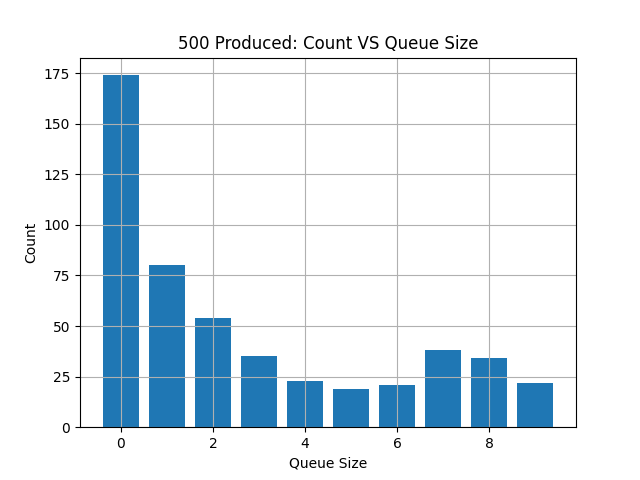
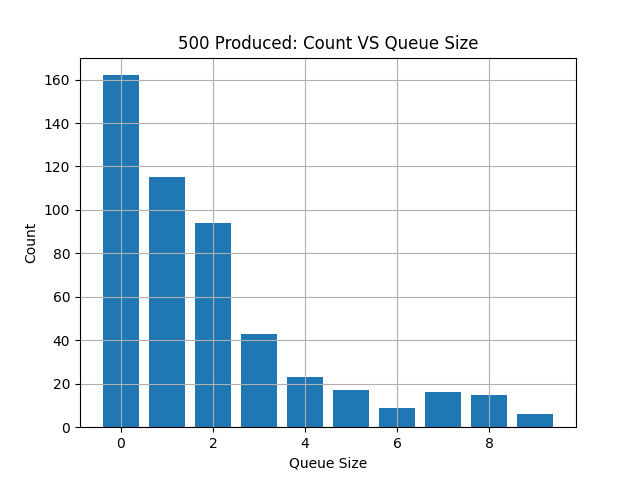
last changes

diff --git a/lesson_04/prove/prove.py b/lesson_04/prove/prove.py
@@ -2,21 +2,16 @@ import time
 import threading
 import random
 from datetime import datetime
-
-# Include cse 251 common Python files
 from cse251 import *
 
 # Global Constants - DO NOT CHANGE
-cars_to_be_made = 500
+CARS_TO_PRODUCE = 500
 MAX_QUEUE_SIZE = 10
 SLEEP_REDUCE_FACTOR = 50
 
-# NO GLOBAL VARIABLES!
-
 class Car():
-    """ This is the Car class that will be created by the factories """
+    """ Represents a randomly generated car. """
 
-    # Class Variables
     car_makes = ('Ford', 'Chevrolet', 'Dodge', 'Fiat', 'Volvo', 'Infiniti', 'Jeep', 'Subaru', 
                 'Buick', 'Volkswagen', 'Chrysler', 'Smart', 'Nissan', 'Toyota', 'Lexus', 
                 'Mitsubishi', 'Mazda', 'Hyundai', 'Kia', 'Acura', 'Honda')
@@ -28,110 +23,120 @@ class Car():
     car_years = [i for i in range(1990, datetime.now().year)]
 
     def __init__(self):
-        # Make a random car
+        """ Initializes a new car with random attributes. """
         self.model = random.choice(Car.car_models)
         self.make = random.choice(Car.car_makes)
         self.year = random.choice(Car.car_years)
 
-        # Sleep a little.  Last statement in this for loop - don't change
-        time.sleep(random.random() / (SLEEP_REDUCE_FACTOR))
+        time.sleep(random.random() / SLEEP_REDUCE_FACTOR)  # Simulate production delay
+        print(f'Created: {self.info()}')  # Print car details
 
-        # Display the car that has was just created in the terminal
-        print(f'Created: {self.info()}')
-           
     def info(self):
-        """ Helper function to quickly get the car information. """
+        """ Returns a string representation of the car. """
         return f'{self.make} {self.model}, {self.year}'
 
 
 class Queue251():
-    """ This is the queue object to use for this assignment. Do not modify!! """
+    """ Custom queue implementation for this assignment. """
 
     def __init__(self):
         self.__items = []
 
     def size(self):
+        """ Returns the current queue size. """
         return len(self.__items)
 
     def put(self, item):
-        assert len(self.__items) <= 10
+        """ Adds an item to the queue. """
         self.__items.append(item)
 
     def get(self):
+        """ Removes and returns the front item from the queue. """
         return self.__items.pop(0)
 
 
 class Factory(threading.Thread):
-    """ This is a factory.  It will create cars and place them on the car queue """
+    """ Factory thread that creates cars and adds them to the queue. """
 
-    def __init__(self, queue, banana1, sem_full):
+    def __init__(self, queue, banana1, banana2):
         threading.Thread.__init__(self)
         self.queue = queue
         self.banana1 = banana1
-        # banana1 is a semaphore it counts the number of available slots in the queue
-        self.sem_full = sem_full
+        self.banana2 = banana2
 
     def run(self):
-        for _ in range(cars_to_be_made):
-            self.banana1.acquire()  
+        """ Produces cars and adds them to the queue. """
+        for _ in range(CARS_TO_PRODUCE):
+            self.banana1.acquire() 
             car = Car()
-            self.queue.put(car)
-            self.sem_full.release()  
+            self.queue.put(car) 
+            self.banana2.release()
+
         
+        self.banana1.acquire()
+        self.queue.put(None)  
+        self.banana2.release()
+
 
 class Dealer(threading.Thread):
-    """ This is a dealer that receives cars """
+    """ Dealer thread that retrieves cars from the queue and sells them. """
 
-    def __init__(self, queue, banana1, sem_full, queue_stats):
+    def __init__(self, queue, banana1, banana2, queue_stats):
         threading.Thread.__init__(self)
         self.queue = queue
         self.banana1 = banana1
-        self.sem_full = sem_full
+        self.banana2 = banana2
         self.queue_stats = queue_stats
 
     def run(self):
-        for _ in range(cars_to_be_made):
-            self.sem_full.acquire()  # Wait for a car to be available
-            car = self.queue.get()
+        """ Sells cars and tracks queue stats. """
+        while True:
+            self.banana2.acquire()  #
+            car = self.queue.get()  
+
+            if car is None:  # Stop signal received
+                break
+
             print(f'Sold: {car.info()}')
-            self.queue_stats[self.queue.size()] += 1  # Track queue size
-            self.banana1.release()  # Signal that a slot is available
-            time.sleep(random.random() / (SLEEP_REDUCE_FACTOR))
+            
+            if self.queue.size() < MAX_QUEUE_SIZE:
+                self.queue_stats[self.queue.size()] += 1  # Track queue size
+
+            self.banana1.release()  
+            time.sleep(random.random() / SLEEP_REDUCE_FACTOR)  # Simulate selling delay
 
 
 def main():
+    """ Main function that sets up the factory and dealer. """
     log = Log(show_terminal=True)
 
-    # Create semaphores
-    banana1 = threading.Semaphore(MAX_QUEUE_SIZE)  # Controls factory production
-    sem_full = threading.Semaphore(0)  # Controls dealer sales
+    # Semaphores
+    banana1 = threading.Semaphore(MAX_QUEUE_SIZE)  
+    banana2 = threading.Semaphore(0)  
 
-    # Create queue251 
+    # Shared queue
     queue = Queue251()
+    queue_stats = [0] * MAX_QUEUE_SIZE  
 
-    # This tracks the length of the car queue during receiving cars by the dealership
-    # i.e., update this list each time the dealer receives a car
-    queue_stats = [0] * MAX_QUEUE_SIZE
-
-    # Create factory and dealership threads
-    factory = Factory(queue, banana1, sem_full)
-    dealer = Dealer(queue, banana1, sem_full, queue_stats)
+    # Factory and dealer threads
+    factory = Factory(queue, banana1, banana2)
+    dealer = Dealer(queue, banana1, banana2, queue_stats)
 
     log.start_timer()
 
-    # Start factory and dealership threads
     factory.start()
     dealer.start()
 
-    # Wait for factory and dealership to complete
     factory.join()
     dealer.join()
 
     log.stop_timer(f'All {sum(queue_stats)} cars have been created and sold.')
 
-    xaxis = [i for i in range(0, MAX_QUEUE_SIZE)]
+    # Graph queue stats
+    xaxis = [i for i in range(MAX_QUEUE_SIZE)]
     plot = Plots()
-    plot.bar(xaxis, queue_stats, title=f'{sum(queue_stats)} Produced: Count VS Queue Size', x_label='Queue Size', y_label='Count', filename='Production count vs queue size.png')
+    plot.bar(xaxis, queue_stats, title=f'{sum(queue_stats)} Produced: Count VS Queue Size', 
+             x_label='Queue Size', y_label='Count', filename='Production_count_vs_queue_size.png')
 
 
 if __name__ == '__main__':
